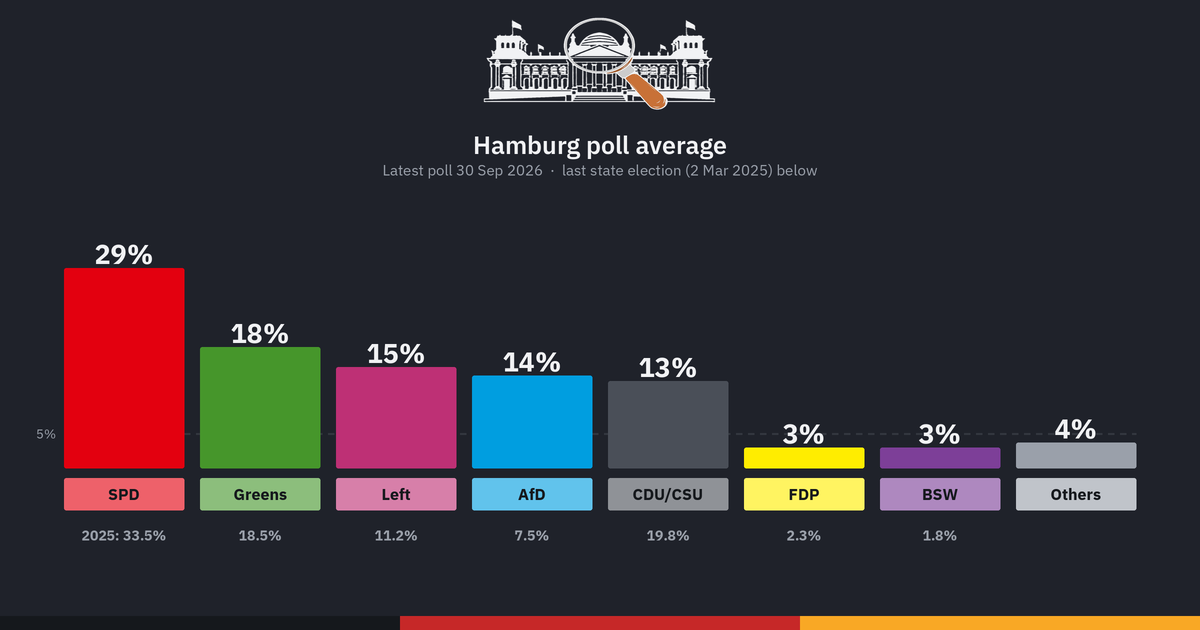
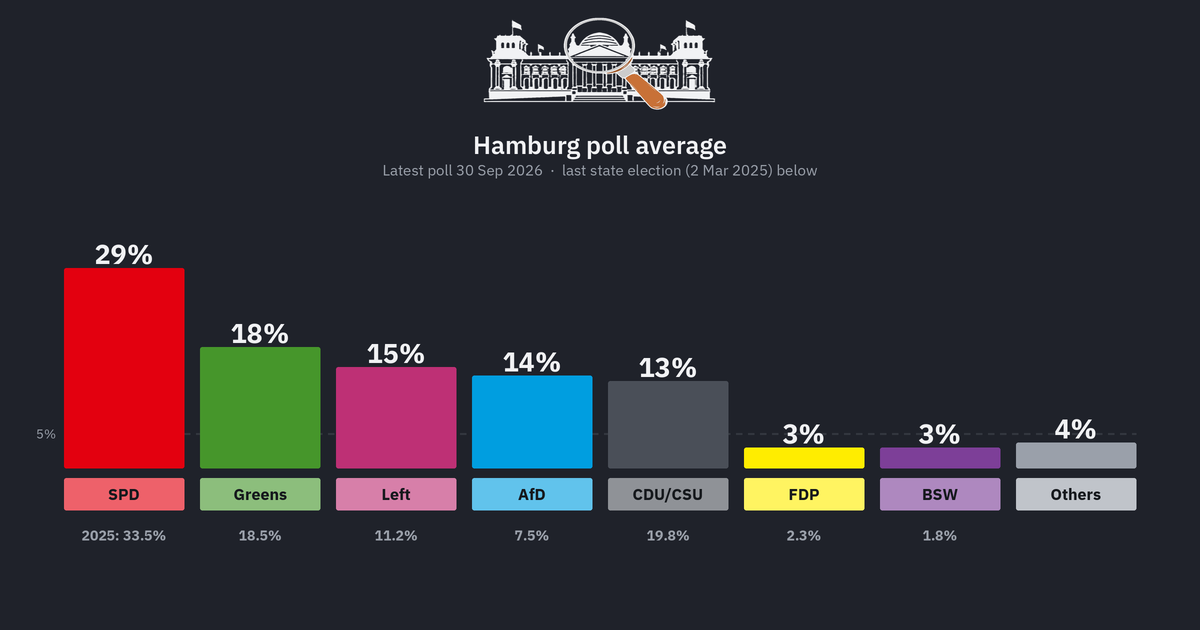
working embeds!!!

Changed region(s): [[0.3083, 0.9651, 1.0, 1.0]]

diff --git a/py/make_og.py b/py/make_og.py
@@ -99,7 +99,7 @@ def _font(w, s):
     return ImageFont.truetype(p, int(s * S))
 
 class Card:
-    """1200x630 dark canvas: logo centred at the top, heading + one muted line, brand stripe along the bottom."""
+    """1200x630 dark canvas: logo centred at the top, heading + one muted line."""
     def __init__(self, title, sub):
         self.img = Image.new("RGB", (W * S, H * S), BG); self.d = ImageDraw.Draw(self.img)
         logo = Image.open(os.path.join(HERE, "img", "logo-dark.png")).convert("RGBA")
@@ -128,8 +128,6 @@ class Card:
     def rrect(self, x0, y0, x1, y1, r, fill):
         self.d.rounded_rectangle([x0 * S, y0 * S, x1 * S, y1 * S], radius=r * S, fill=fill)
     def save(self, path):
-        for k, col in enumerate(("#15181C", "#C62828", "#F9A825")):   # brand stripe
-            self.d.rectangle([k * W // 3 * S, (H - 14) * S, ((k + 1) * W // 3) * S, H * S], fill=hexrgb(col))
         os.makedirs(os.path.dirname(path), exist_ok=True)
         self.img.resize((W, H), Image.LANCZOS).save(path, optimize=True)
 
@@ -243,9 +241,9 @@ def card_polls(cfg, polls, parties):
     series = [dict(label=labels.get(p, p), color=party_color(cfg, p),
                    pts=[(t0 + timedelta(days=round(days * k / 100)), smoothed(polls, p, t0 + timedelta(days=round(days * k / 100)), bw)) for k in range(101)]) for p in ps]
     top = max(v for s in series for _, v in s["pts"] if v is not None)
-    c = Card("Election polls & government approval", "Federal voting intention, last 12 months  \u00b7  latest %s" % t_max.strftime("%d %b %Y").lstrip("0"))
+    c = Card("Election polls & approval", "Federal voting intention, last 12 months  \u00b7  latest %s" % t_max.strftime("%d %b %Y").lstrip("0"))
     c.text(64, 204, "Poll average", 700, 15, MUT)
-    line_panel(c, (64, 226, 790, 598), series, t0, t_max, 0, math.ceil(top / 5) * 5, 5, lab_w=104)
+    line_panel(c, (64, 226, 770, 598), series, t0, t_max, 0, math.ceil(top / 5) * 5, 5, lab_w=104)
     # government approval (right)
     try:
         with open(os.path.join(HERE, cfg.get("approvalCsv", "data/government_approval.csv")), encoding="utf-8-sig", newline="") as f:
@@ -261,10 +259,21 @@ def card_polls(cfg, polls, parties):
             if not any(v[key] is not None for _, v in ap): continue
             ser.append(dict(label=nm, color="#%02X%02X%02X" % lighten(hexrgb(col), .32),
                             pts=[(a0 + timedelta(days=round(ad * k / 60)), smoothed(ap, key, a0 + timedelta(days=round(ad * k / 60)), 15)) for k in range(61)]))
+        try:  # chancellor approval: drawn on the same axis, in the overview page's colours (#B0FA20 / #F49AA9 on dark)
+            with open(os.path.join(HERE, "data", "chancellor_approval.csv"), encoding="utf-8-sig", newline="") as f:
+                cr = list(csv.DictReader(f))
+            ch = sorted(((pdate(r["Date"]), {"a": num(r.get("Approve")), "b": num(r.get("Disapprove"))}) for r in cr if pdate(r["Date"])), key=lambda x: x[0])
+            for key, nm, col in (("a", "Chanc. approve", "#B0FA20"), ("b", "Chanc. disapprove", "#F49AA9")):
+                if any(v[key] is not None for _, v in ch):
+                    ser.append(dict(label=nm, color=col, pts=[(a0 + timedelta(days=round(ad * k / 60)), smoothed(ch, key, a0 + timedelta(days=round(ad * k / 60)), 15)) for k in range(61)]))
+        except Exception as e:
+            print("  (chancellor approval skipped: %s)" % e)
+        for x in ser:
+            if x["label"] in ("Approve", "Disapprove"): x["label"] = "Gov. " + x["label"].lower()
         vals = [v for s in ser for _, v in s["pts"] if v is not None]
         lo, hi = math.floor(min(vals) / 10) * 10, math.ceil(max(vals) / 10) * 10
-        c.text(850, 204, "Government approval", 700, 15, MUT)
-        line_panel(c, (850, 226, 1160, 598), ser, a0, a_max, lo, hi, 10, lab_w=108, month_step=4, ylab_w=40)
+        c.text(810, 204, "Government & chancellor approval", 700, 15, MUT)
+        line_panel(c, (810, 226, 1170, 598), ser, a0, a_max, lo, hi, 10, lab_w=150, month_step=4, ylab_w=40)
     except Exception as e:
         print("  (approval panel skipped: %s)" % e)
     return c, t_max
